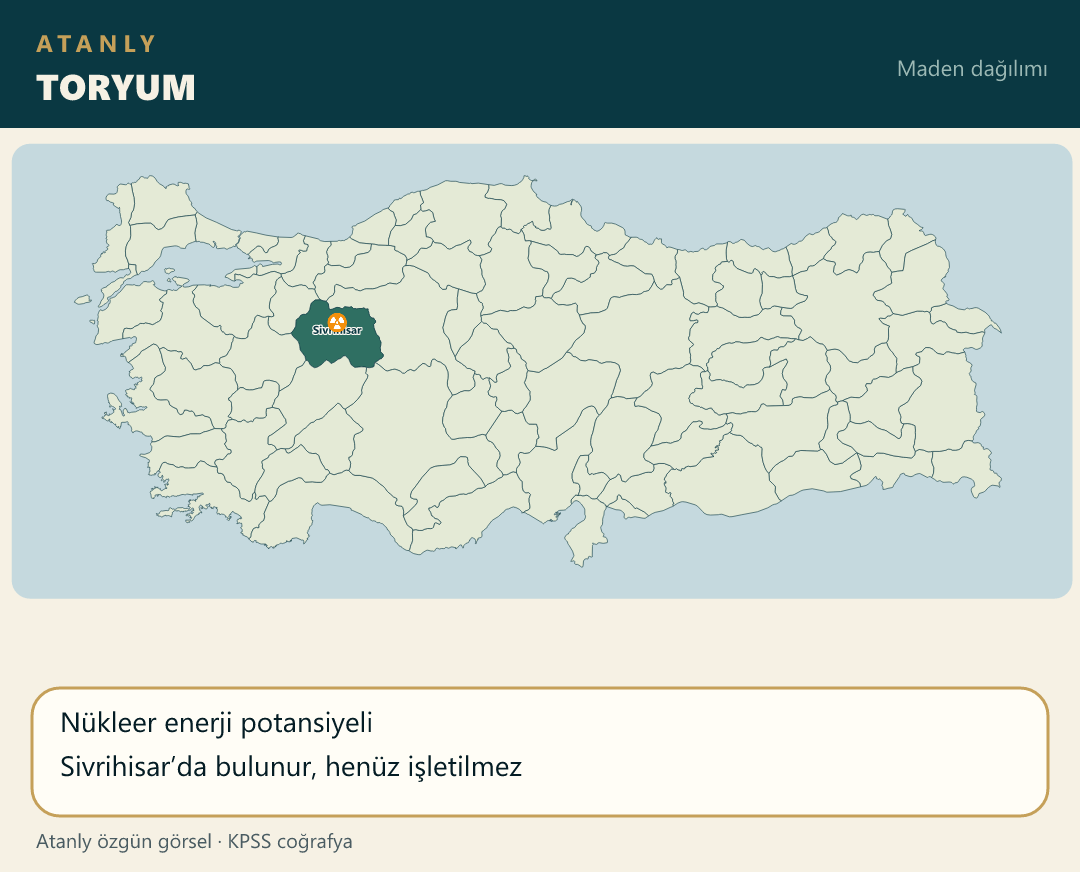
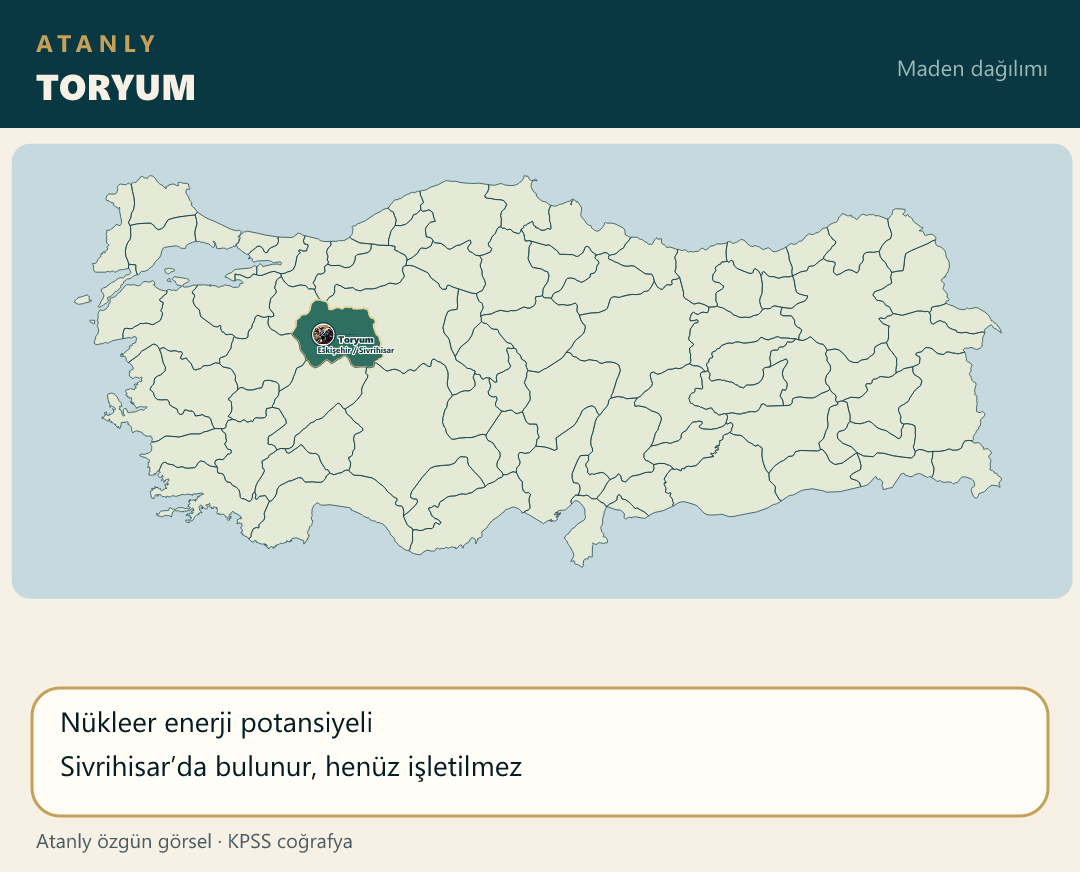
Place the thorium photo on the Eskisehir land-center pin.

Changed region(s): [[0.275, 0.3406, 0.3667, 0.4335], [0.825, 0.4025, 0.8556, 0.4335], [0.2444, 0.4954, 0.275, 0.5264]]

diff --git a/scripts/build-atanly-maps.js b/scripts/build-atanly-maps.js
@@ -485,7 +485,7 @@ function topicIcon(file) {
         madengenel: "ore", madendemir: "iron", madenbakir: "copper", madenboksit: "bauxite",
         madenkrom: "chrome", madenbarit: "barite", madenbor: "boron", madenmermer: "marble",
         madenfosfat: "phosphate", madenasbest: "asbestos", madentrona: "salt", madenaltin: "gold",
-        madenuranyum: "uranium", madentoryum: "uranium", madenciva: "mercury", madentuz: "salt",
+        madenuranyum: "uranium", madentoryum: "thorium", madenciva: "mercury", madentuz: "salt",
         madenperlit: "perlite", madenpomza: "pumice", madenkukurt: "sulfur", madenmanganez: "manganese",
         madenkursun: "lead", madenoltu: "jet", madenlule: "lule", madenvolfram: "tungsten",
         madenfeldspat: "feldspar", madenzimpara: "emery", madenetiket: "ore"
@@ -1063,8 +1063,10 @@ function main() {
         { file: "maden_uranyum.png", title: "URANYUM", iller: ["Yozgat"],
             yazilar: ["Sorgun"],
             facts: ["Nükleer enerji hammaddesi", "Yozgat–Sorgun"] },
-        { file: "maden_toryum.png", title: "TORYUM", iller: ["Eskişehir"],
-            yazilar: ["Sivrihisar"],
+        { file: "maden_toryum.png", title: "TORYUM", urun: "Toryum",
+            noktalar: [
+                { il: "Eskişehir", ilce: "Sivrihisar", ldx: 32, ldy: 8 }
+            ],
             facts: ["Nükleer enerji potansiyeli", "Sivrihisar’da bulunur, henüz işletilmez"] },
         { file: "maden_civa.png", title: "CIVA", urun: "Cıva",
             noktalar: [

diff --git a/notlar/cografya-21-not.js b/notlar/cografya-21-not.js
@@ -2,7 +2,7 @@
 (function () {
     function harita(src, alt) {
         return '<div class="mt-4 overflow-hidden rounded-xl border border-blue-200 dark:border-blue-700/50 bg-white dark:bg-slate-800 p-2">' +
-            '<img src="./src/img/' + src + '?v=33" alt="' + alt + ' Haritası" class="w-full h-auto rounded-lg object-contain" loading="lazy">' +
+            '<img src="./src/img/' + src + '?v=34" alt="' + alt + ' Haritası" class="w-full h-auto rounded-lg object-contain" loading="lazy">' +
             "</div>";
     }
 

diff --git a/index.html b/index.html
@@ -119,7 +119,7 @@
     <script src="notlar/cografya-18-not.js?v=17"></script>
     <script src="notlar/cografya-19-not.js?v=25"></script>
     <script src="notlar/cografya-20-not.js?v=1"></script>
-    <script src="notlar/cografya-21-not.js?v=26"></script>
+    <script src="notlar/cografya-21-not.js?v=27"></script>
     <script src="notlar/cografya-22-not.js?v=1"></script>
     <script src="notlar/cografya-23-not.js?v=1"></script>
     <script src="notlar/cografya-24-not.js?v=1"></script>
